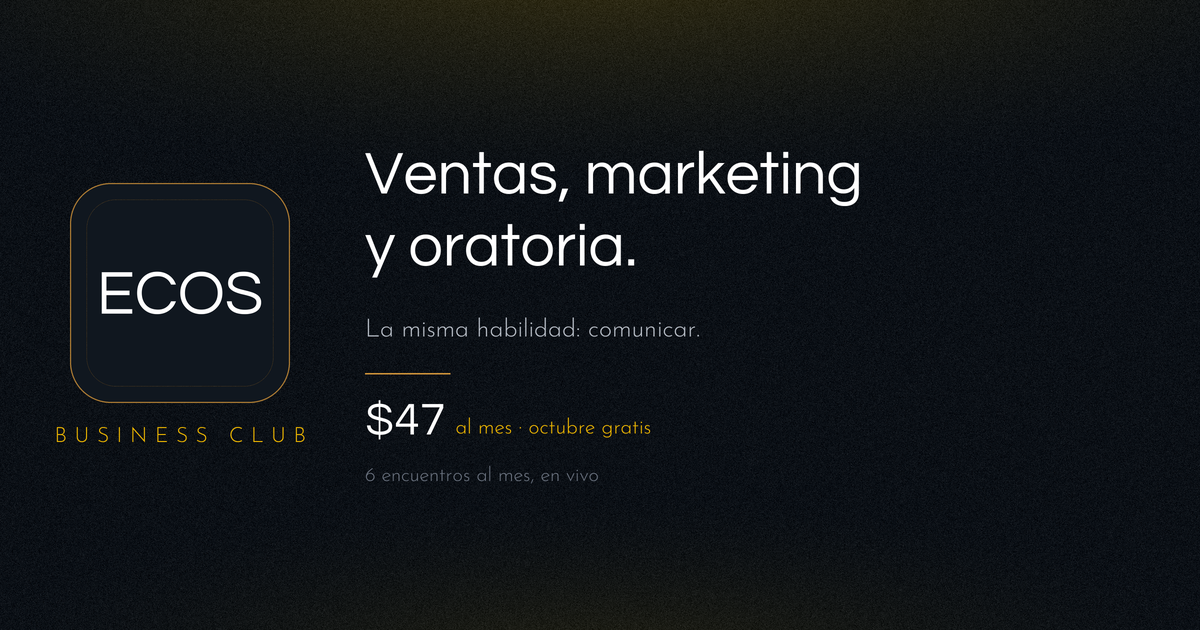
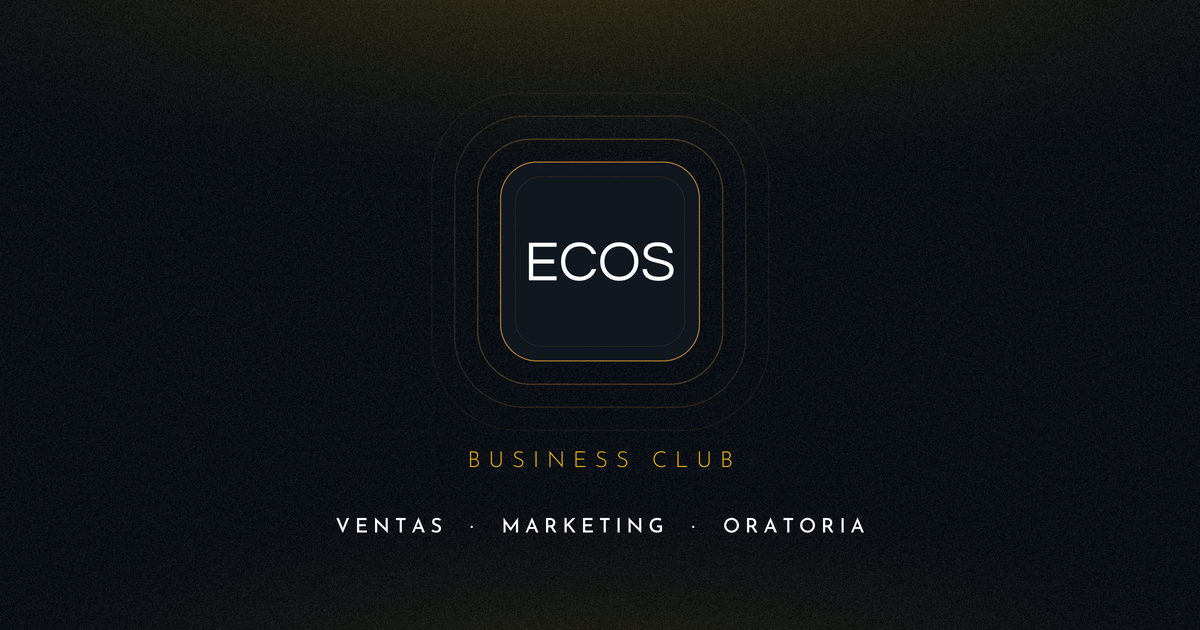
feat(ecos): flyer del lanzamiento y tarjeta del enlace sin precio
La imagen y la descripción que salen al compartir /ecos ya no muestran
el precio: solo la placa con sus ecos, Business Club y las tres materias.
Flyer «Hoy empezamos» con la clase de oratoria (8 pm Este, 7 pm Colombia).

diff --git a/flyers/generar-lanzamiento-ecos.py b/flyers/generar-lanzamiento-ecos.py
@@ -1,0 +1,138 @@
+# -*- coding: utf-8 -*-
+"""Flyer del gran lanzamiento de ECOS: «Hoy empezamos» + clase de regalo.
+
+Pieza de un solo día para mandar por WhatsApp junto al mensaje personal. El
+llamado es «escríbeme»: no lleva QR ni enlace, la conversación la abre quien
+lo recibe. Mismo sistema que generar-publicidad-ecos.py, del que toma fondo,
+placa y ecos.
+
+    ./.venv/bin/python flyers/generar-lanzamiento-ecos.py
+
+Salida en flyers/publicidad-ecos/lanzamiento/ (4x5 para chats y grupos,
+9x16 para estados e historias).
+"""
+import importlib.util
+import pathlib
+
+from PIL import Image, ImageDraw
+
+HERE = pathlib.Path(__file__).resolve().parent
+_spec = importlib.util.spec_from_file_location("pub", HERE / "generar-publicidad-ecos.py")
+pub = importlib.util.module_from_spec(_spec)
+_spec.loader.exec_module(pub)
+fe = pub.fe
+
+pub.S = 3  # se ve en pantallas grandes: un poco más de resolución
+p = pub.p
+GOLD, WHITE, MUTED, DIM = pub.GOLD, pub.WHITE, pub.MUTED, pub.DIM
+Q, JL, JR, JM = pub.Q, pub.JL, pub.JR, pub.JM
+
+# ── Lo que cambia de una edición a otra ─────────────────────────────────────
+# La hora sale de ecos_sessions (la misma que ven el panel y los correos).
+MES, DIA, SEMANA = "OCT", "06", "MARTES"
+CLASE = "Oratoria"
+PROFE = "con Holman Orjuela"
+HORAS = ["8:00 pm hora del Este", "7:00 pm Colombia"]
+
+
+FORMATOS = {
+    # El 9x16 deja libres ~250 px arriba y ~300 abajo (interfaz de historias).
+    "4x5": dict(H=1350, k=1.0, top=0, bottom=0),
+    "9x16": dict(H=1920, k=1.1, top=210, bottom=250),
+}
+
+
+def lanzamiento(fmt):
+    F = FORMATOS[fmt]
+    k = F["k"]
+    q = lambda v: p(v * k)
+    W, H = p(1080), p(F["H"])
+    img = pub.fondo(W, H, [(0.5, 0.05, 0.9, 0.42, 0.22), (0.5, 1.1, 0.7, 0.3, 0.09)])
+    cx = W / 2
+
+    # Todo el contenido en una capa que al final se centra en alto.
+    capa = Image.new("RGBA", (W, H), (0, 0, 0, 0))
+    d = ImageDraw.Draw(capa)
+    y = q(110)
+
+    placa, paso = q(112), q(14)
+    capa.alpha_composite(pub.ecos_placa(W, H, cx, y + placa / 2, placa, 3, paso))
+    pub.pegar_centro(capa, fe.marca(placa).convert("RGBA"), cx, y)
+    y += placa + 3 * paso + q(12)
+    fe.tracked(d, cx, y, "BUSINESS CLUB", JL(q(17)), GOLD, q(7))
+    y += q(78)
+
+    # Eyebrow con filetes a los lados
+    f_e = JM(q(24))
+    t = "GRAN LANZAMIENTO"
+    tw = fe.track_w(d, t, f_e, q(8))
+    fe.tracked(d, cx, y, t, f_e, GOLD, q(8))
+    yl = y + q(11)
+    for s in (-1, 1):
+        x0 = cx + s * (tw / 2 + q(26))
+        d.line([(x0, yl), (x0 + s * q(70), yl)], fill=(240, 184, 0, 150), width=max(1, q(1.5)))
+    y += q(62)
+
+    pub.centrado(d, cx, y, "Hoy empezamos.", Q(q(104)), WHITE)
+    y += q(132)
+    y = pub.bloque(d, cx, y, "Ventas, marketing y oratoria, en vivo,\ncon la comunidad correcta.",
+                   JL(q(30)), MUTED, p(900), q(42), centro=True)
+    y += q(48)
+
+    # Clase de hoy, como una entrada de agenda: la fecha a la izquierda, un
+    # filete dorado y los datos a la derecha.
+    f_mes, f_dia, f_sem = JM(q(22)), Q(q(118)), JL(q(20))
+    f_ey, f_cl, f_pr, f_h = JM(q(19)), Q(q(56)), JL(q(28)), JR(q(23))
+    w_izq = max(d.textlength(DIA, font=f_dia), fe.track_w(d, MES, f_mes, q(6)),
+                fe.track_w(d, SEMANA, f_sem, q(5)))
+    w_der = max(fe.track_w(d, "PRIMERA CLASE", f_ey, q(5)), d.textlength(CLASE, font=f_cl),
+                d.textlength(PROFE, font=f_pr), *(d.textlength(h, font=f_h) for h in HORAS))
+    gap = q(48)
+    x0 = cx - (w_izq + gap * 2 + w_der) / 2
+    alto = q(220)
+    xi = x0 + w_izq / 2
+    fe.tracked(d, xi, y + q(8), MES, f_mes, GOLD, q(6))
+    pub.centrado(d, xi, y + q(52), DIA, f_dia, WHITE)
+    fe.tracked(d, xi, y + q(186), SEMANA, f_sem, MUTED, q(5))
+    xl = x0 + w_izq + gap
+    d.line([(xl, y), (xl, y + alto)], fill=(240, 184, 0, 170), width=max(1, q(1.5)))
+    xd = xl + gap
+    pub.tracked_left(d, xd, y + q(4), "PRIMERA CLASE", f_ey, GOLD, q(5))
+    d.text((xd, y + q(34)), CLASE, font=f_cl, fill=WHITE)
+    d.text((xd, y + q(106)), PROFE, font=f_pr, fill=MUTED)
+    for i, h in enumerate(HORAS):
+        d.text((xd, y + q(154) + i * q(34)), h, font=f_h, fill=WHITE if i == 0 else MUTED)
+    y += alto + q(64)
+
+    # Llamado a la acción en una tarjeta con borde dorado
+    bw, bh = p(860 * min(k, 1.0)) if fmt == "4x5" else p(900), q(196)
+    bx = int(cx - bw / 2)
+    d.rounded_rectangle([bx, y, bx + bw, y + bh], radius=q(26),
+                        fill=(240, 184, 0, 18), outline=(240, 184, 0, 190), width=max(1, q(1.6)))
+    pub.centrado(d, cx, y + q(36), "¿Quieres vivir la clase de hoy", Q(q(38)), WHITE)
+    pub.centrado(d, cx, y + q(82), "de regalo?", Q(q(38)), WHITE)
+    pub.centrado(d, cx, y + q(140), "Escríbeme y te reservo tu lugar.", JR(q(27)), GOLD)
+    y += bh + q(54)
+
+    # Firma
+    logo = Image.open(HERE.parent / "public/logo-h.png").convert("RGBA")
+    lw = q(26)
+    logo = logo.resize((lw, int(logo.height * lw / logo.width)), Image.LANCZOS)
+    f_f = JL(q(16))
+    t = "UN CLUB DE HOLMAN GLOBAL GROUP"
+    tw = fe.track_w(d, t, f_f, q(4))
+    xl = int(cx - (lw + q(12) + tw) / 2)
+    capa.alpha_composite(logo, (xl, int(y + q(9) - logo.height / 2)))
+    pub.tracked_left(d, xl + lw + q(12), y, t, f_f, DIM, q(4))
+    y += q(30)
+
+    bb = capa.getbbox()
+    top, bot = p(F["top"]), H - p(F["bottom"])
+    dy = int((top + bot) / 2 - (bb[1] + bb[3]) / 2)
+    img.alpha_composite(capa, (0, dy))
+    pub.guardar(img, pub.OUT / "lanzamiento", f"ecos-lanzamiento-hoy-{fmt}", 1080, F["H"])
+
+
+if __name__ == "__main__":
+    for f in FORMATOS:
+        lanzamiento(f)

diff --git a/flyers/generar-flyer-ecos.py b/flyers/generar-flyer-ecos.py
@@ -278,64 +278,40 @@ def og():
     """La imagen que se ve al compartir holmanglobalgroup.com/ecos.
 
     Es lo primero que la gente ve del club cuando llega el enlace por WhatsApp,
-    antes de leer una sola palabra. 1200x630 es lo que piden WhatsApp, Facebook
-    y X. Se arma a 2x y se reduce al final, para que el texto quede limpio.
+    antes de leer una sola palabra. Solo la placa con sus ecos, el nombre y las
+    tres materias: sin precio (el precio vive en la página). 1200x630 es lo que
+    piden WhatsApp, Facebook y X. Se arma a 2x y se reduce al final.
     """
     W, H = 2400, 1260
-    img = background(W, H)
+    img = background(W, H).convert("RGBA")
+    cx = W // 2
+
+    placa_px, paso = 400, 46
+    f_desc = JL(44)
+    f_mat = JM(40)
+    alto = placa_px + 3 * paso + 40 + 44 + 90 + 40
+    y = (H - alto) // 2 + 3 * paso // 2
+
+    # Los «ecos»: contornos con la forma de la placa que se abren y se apagan.
+    ecos = Image.new("RGBA", (W, H), (0, 0, 0, 0))
+    de = ImageDraw.Draw(ecos)
+    cy = y + placa_px / 2
+    for i, a in zip(range(1, 4), (70, 36, 16)):
+        m = paso * i
+        l = placa_px + 2 * m
+        de.rounded_rectangle([cx - l / 2, cy - l / 2, cx + l / 2, cy + l / 2],
+                             radius=l * 0.185 + m * 0.35, outline=(205, 146, 58, a), width=3)
+    img.alpha_composite(ecos)
+
+    pl = marca(placa_px).convert("RGBA")
+    img.alpha_composite(pl, (cx - placa_px // 2, y))
     d = ImageDraw.Draw(img)
+    y += placa_px + 3 * paso + 40
+    tracked(d, cx, y, "BUSINESS CLUB", f_desc, GOLD, 16)
+    y += 44 + 90
+    tracked(d, cx, y, "VENTAS  ·  MARKETING  ·  ORATORIA", f_mat, WHITE, 10)
 
-    MARGEN = 140
-    placa_px = 440
-    hueco = 150
-
-    pl = marca(placa_px)
-    f_desc = JL(42)
-    tr_desc = 15
-    alto_marca = placa_px + 46 + 42        # placa + aire + descriptor
-
-    # Bloque de texto: se mide primero para poder centrar los dos como un grupo.
-    f_h = Q(122)
-    titulo = ["Ventas, marketing", "y oratoria."]
-    f_s = JL(50)
-    sub = "La misma habilidad: comunicar."
-    f_p = Q(92)
-    f_m = JL(42)
-    f_x = JL(40)
-    extra = "6 encuentros al mes, en vivo"
-
-    alto_txt = len(titulo) * 146 + 42 + 60 + 52 + 46 + 104 + 62
-    alto = max(alto_marca, alto_txt)
-    top = (H - alto) // 2
-
-    # Marca a la izquierda
-    y_m = top + (alto - alto_marca) // 2
-    img.paste(pl, (MARGEN, y_m), pl)
-    tracked(d, MARGEN + placa_px / 2, y_m + placa_px + 46, "BUSINESS CLUB", f_desc, GOLD, tr_desc)
-
-    # Texto a la derecha
-    x = MARGEN + placa_px + hueco
-    y = top + (alto - alto_txt) // 2
-    for linea in titulo:
-        b = d.textbbox((0, 0), linea, font=f_h)
-        d.text((x - b[0], y - b[1]), linea, font=f_h, fill=WHITE)
-        y += 146
-    y += 42
-
-    b = d.textbbox((0, 0), sub, font=f_s)
-    d.text((x - b[0], y - b[1]), sub, font=f_s, fill=MUTED)
-    y += 60 + 52
-
-    d.line([(x, y), (x + 170, y)], fill=(205, 146, 58, 150), width=3)
-    y += 46
-
-    d.text((x, y), "$47", font=f_p, fill=WHITE)
-    w = d.textlength("$47", font=f_p)
-    d.text((x + w + 20, y + 42), "al mes · octubre gratis", font=f_m, fill=GOLD)
-    b = d.textbbox((0, 0), extra, font=f_x)
-    d.text((x - b[0], y + 104 + 34 - b[1]), extra, font=f_x, fill=DIM)
-
-    img.resize((1200, 630), Image.LANCZOS).save(PROJ / "public/og-ecos.png")
+    img.convert("RGB").resize((1200, 630), Image.LANCZOS).save(PROJ / "public/og-ecos.png")
     print("  ✓ public/og-ecos.png  (1200x630)")
 
 
